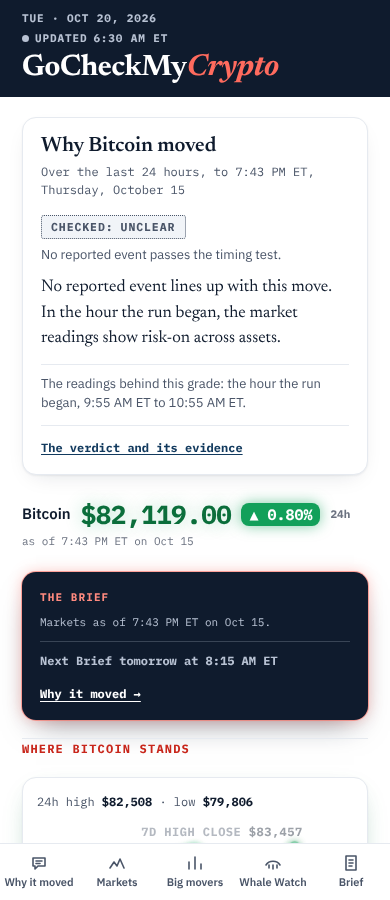
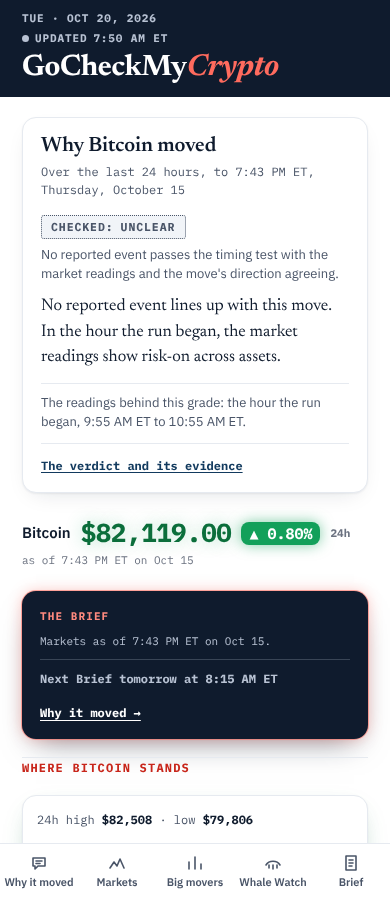
Sprint 9.5: the printed definitions agree with every card they sit beside
Unclear: no reported event passes the timing test with the market readings and the move's direction agreeing.
Disputed adds the events that pass and point opposite ways. Likely and Confirmed unchanged. Test, plants, suite
log and the shots whose text changed.

Changed region(s): [[0.0308, 0.28, 0.9538, 0.9644]]

diff --git a/scripts/sprint95_test.py b/scripts/sprint95_test.py
@@ -761,6 +761,32 @@ def rulings_cases(fails):
     g = verdict.grade(r, "BTC", {"basis": "rolling_24h", "BTC": 1.5, "ETH": 1.0})
     guarded(fails, "J-9(3): a listing, a primary notice, with a rise and the readings agreeing, is Likely, never Confirmed",
             lambda: g["grade"] in ("Likely", None) and g["grade"] != "Confirmed")
+    # --- the printed definitions agree with every card they sit beside (coordinator, October 20) -------------------
+    UNCLEAR_DEF = "No reported event passes the timing test with the market readings and the move's direction agreeing."
+    DISPUTED_DEF = ("Outlets name different causes, or one named cause fails the timing test while another passes, or "
+                    "the events that pass point opposite ways.")
+    guarded(fails, "definitions: Unclear, Disputed, Likely carry the coordinator's wording; Confirmed is unchanged",
+            lambda: verdict.DEFINITIONS["Unclear"] == UNCLEAR_DEF and verdict.DEFINITIONS["Disputed"] == DISPUTED_DEF
+            and verdict.DEFINITIONS["Likely"] == LIKELY_DEF
+            and verdict.DEFINITIONS["Confirmed"] == "A primary source states the cause, the timing test passes, and the market readings agree.")
+    cases = [("14 Oct real", t93.rec(t93.D14()), d14), ("15 Oct real", t93.rec(t93.D15()), t93.day15()),
+             ("readings silent", synth_events([("a", "wire", "Alpha Labs announced a partnership with Beta Corp", 30, "silent")]), d14),
+             ("listing against a fall", synth_events([("a", "listing", "Binance Will List Alpha (ALP)", 30, "agree")]), d14),
+             ("opposite ways", synth_events([("a", "listing", "Binance Will List Alpha (ALP)", 30, "agree"),
+                                             ("b", "delisting", "Example Exchange will delist Beta (BET)", 20, "agree")]), d14)]
+    for nm, r, dm in cases:
+        vr = verdict.record_from(r, "2026-10-14", "evening", day=dm)
+        card = verdict.card_html(vr, "BTC", "home")
+        v = vr["coins"]["BTC"]
+        shown = re.search(r'<span class="vd-def">(.*?)</span>', card)
+        dtext = _html.unescape(shown.group(1)) if shown else ""
+        line = " ".join(v.get("line") or [])
+        # the card's own line and the definition beside it cannot both stand unless the definition is true: an
+        # Unclear card that names an event lining up in time must not print a definition saying no event passes
+        guarded(fails, f"definition beside the card ({nm}): the printed definition is the grade's, and an Unclear card naming an "
+                       "event that lines up in time does not print a definition saying no event passes",
+                lambda v=v, dtext=dtext, line=line: dtext == verdict.DEFINITIONS[v["grade"]]
+                and not (v["grade"] == "Unclear" and "lines up in time" in line and "No reported event passes the timing test." in dtext + " "))
     # --- B3: J-8(b) the page's window ran the other way ------------------------------------------------------------
     rec14 = t93.rec(t93.D14())
     day_up = {"basis": "rolling_24h", "BTC": 1.4, "ETH": 1.0}

diff --git a/verdict.py b/verdict.py
@@ -16,7 +16,8 @@ THE RULES (the strategist's rulings of October 19, 2026, docs/RULINGS.md):
               points of Bitcoin (one plain line, "Ether moved with Bitcoin", on the Ether page). When the
               window moved the other way from the run the timing test measured there is no card either, and
               the page prints "Verdict at the next read" in its place (October 20, J-8 b).
-  Unclear     no candidate event passes the timing test: "No reported event lines up with this move."
+  Unclear     printed definition: "No reported event passes the timing test with the market readings and the
+              move's direction agreeing." Card: no candidate passes, "No reported event lines up with this move."
               Also (October 20, J-8 a and J-9 item 3) an event that lines up in time with nothing to support
               it: "A reported event lines up in time, but the market readings do not match it." or, for an event
               with a direction of its own that the move ran against, "A reported event lines up in time, but
@@ -76,9 +77,9 @@ GRADES = ("Confirmed", "Likely", "Disputed", "Unclear")
 DEFINITIONS = {
     "Confirmed": "A primary source states the cause, the timing test passes, and the market readings agree.",
     "Likely": "The reported events that pass the timing test, with the market readings agreeing.",
-    "Disputed": "Outlets name different causes, or a named cause fails the timing test while another event "
-                "passes it.",
-    "Unclear": "No reported event passes the timing test.",
+    "Disputed": "Outlets name different causes, or one named cause fails the timing test while another passes, or "
+                "the events that pass point opposite ways.",
+    "Unclear": "No reported event passes the timing test with the market readings and the move's direction agreeing.",
 }
 NAMES = {"BTC": ("Bitcoin", "bitcoin"), "ETH": ("Ether", "ether")}
 NO_EVENT = "No reported event lines up with this move."

diff --git a/scripts/sprint95_plants.py b/scripts/sprint95_plants.py
@@ -71,6 +71,10 @@ PLANTS = [
  ("rulings of Oct 20: the other-way case prints the readings line", "verdict.py", "top = OTHER_WAY if other_way else READINGS_MISMATCH", "top = READINGS_MISMATCH"),
  ("rulings of Oct 20: a window that ran the other way prints nothing", "verdict.py", "return f'<p class=\"vd-plain vd-next\">", "return '' and f'<p class=\"vd-plain vd-next\">"),
  ("rulings of Oct 20: a primary flag on a listing confirms", "verdict.py", 'prim = [p for p in agree if p["primary"]]', 'prim = [p for p in agree if p["c"].get("primary")]'),
+ ("definitions: Unclear's printed definition is the old 'no event passes' sentence again", "verdict.py", '''"Unclear": "No reported event passes the timing test with the market readings and the move's direction agreeing.",''', '''"Unclear": "No reported event passes the timing test.",'''),
+ ("definitions: Disputed leaves out events pointing opposite ways", "verdict.py", '''or "
+                "the events that pass point opposite ways.",''', '''or "
+                "another passes.",'''),
 ]
 def run(cwd, extra=()):
     t = time.time()

diff --git a/scripts/sprint93_test.py b/scripts/sprint93_test.py
@@ -353,7 +353,7 @@ def grade_cases(fails):
     guarded(fails, "the definitions follow the rulings: Confirmed needs a primary source; Unclear is no event "
                    "passing the timing test; no definition says 'two outlets' or 'silent'",
             lambda: "primary source" in verdict.DEFINITIONS["Confirmed"]
-            and verdict.DEFINITIONS["Unclear"] == "No reported event passes the timing test."
+            and verdict.DEFINITIONS["Unclear"] == "No reported event passes the timing test with the market readings and the move's direction agreeing."  # CHANGED BY the coordinator's correction of October 20 (J-8 a, J-9 3): the definition must agree with the cards
             and not any(re.search(r"two outlets|silent", d, re.I) for d in verdict.DEFINITIONS.values()))
 
 
